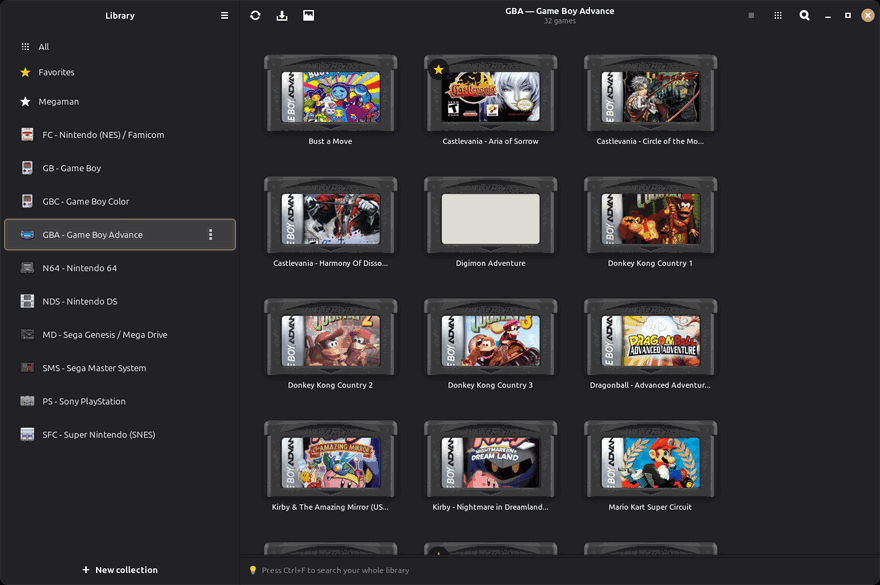
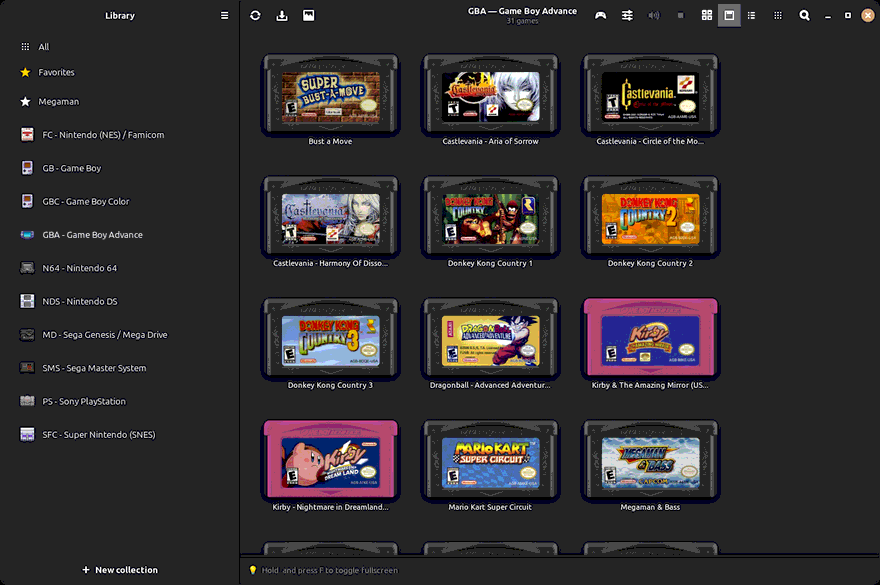
[issue-122] chore: refresh the Welcome Assistant slides
The seven images were captured on 24 July, before the 1.9.x UI. They showed
no header view switcher, no volume, stop, settings or per-console
controller buttons, no cartridge shelf, and the input page before the
Game Controls / System Hotkeys split -- and by now they also predated
everything the v1.10.0 milestone added.

Recaptured from the real app at the same 880x585 PNG8 the slides already
used, so the layout and the package size are unchanged.

Two consoles were chosen deliberately. `covers` and `views` use libraries
with complete box art: a card without artwork now falls back to the
"Search artwork…" placeholder from issue #127, which is a poor advert on a
slide called "Beautiful cover art". `shortcuts` uses a full compact list
so the hint bar has something under it.

The copy the issue asks about was stale in the same way, and in seven
languages now rather than two:

- "Make it your own" listed a cover grid and a compact list. The cartridge
  shelf is the *default* view mode and went unmentioned.
- "Beautiful cover art" predated both the OpenEmux artwork mirror and the
  per-ROM artwork manager, so it described two providers and no way to
  recover a miss.

Checked inside the wizard rather than only as PNGs -- the slides were
navigated in a running assistant, which is the only place the image and
its caption can be seen disagreeing.

diff --git a/src/openemux/i18n/locales/ja.py b/src/openemux/i18n/locales/ja.py
@@ -16,9 +16,9 @@ TRANSLATIONS = {
     "welcome.import.title": "ROM を取り込む",
     "welcome.import.body": "ROM ファイルをウィンドウの任意の場所にドロップすると取り込めます。設定 → ROM でライブラリのフォルダーを指定することもできます。ゲームはファイル形式から自動的に正しいコンソールへ振り分けられ、いつでも再スキャンして新しく追加した分を取り込めます。",
     "welcome.views.title": "自分好みに",
-    "welcome.views.body": "カバーのグリッドとコンパクトなリストを切り替え、カバーの大きさを変え、好きな順に並べ替えられます。コンソールごと・表示ごとにレイアウトを保持できるので、スーパーファミコンとゲームボーイで見え方を変えられます。",
+    "welcome.views.body": "カートリッジ棚、カバーのグリッド、コンパクトなリストを切り替え、カバーの大きさを変え、好きな順に並べ替えられます。コンソールごと・表示ごとにレイアウトを保持できるので、スーパーファミコンとゲームボーイで見え方を変えられます。",
     "welcome.covers.title": "美しいカバーアート",
-    "welcome.covers.body": "OpenEmux は libretro のサムネイルアーカイブからカバーを自動取得し、任意で ScreenScraper からカートリッジラベルのスキャンも取得します。カバーは ROM の隣に保存されるので、自分の画像を置いて好きなものに差し替えることもできます。",
+    "welcome.covers.body": "OpenEmux は libretro のアーカイブ、プロジェクト自身のミラー、そして任意で ScreenScraper（カートリッジラベル用）から自動でアートワークを取得します。見つからなかったゲームは、アートワーク管理から名前や ROM のハッシュで検索できます。もちろん自分の画像を使うこともできます。",
     "welcome.shaders.title": "色とシェーダー",
     "welcome.shaders.body": "それぞれのコンソールを記憶のままの見た目に。設定 → 映像 でシステムごとにシェーダーを選べます（CRT の走査線、LCD グリッドなど）。RetroArch でゲームを起動するたびに適用されます。",
     "welcome.shortcuts.title": "便利なショートカット",

diff --git a/src/openemux/i18n/locales/fr.py b/src/openemux/i18n/locales/fr.py
@@ -16,9 +16,9 @@ TRANSLATIONS = {
     "welcome.import.title": "Importez vos ROMs",
     "welcome.import.body": "Déposez des fichiers ROM n’importe où dans la fenêtre pour les importer, ou indiquez à OpenEmux le dossier de votre ludothèque dans Paramètres → ROMs. Les jeux sont classés automatiquement dans la bonne console d’après leur type de fichier, et vous pouvez relancer l’analyse à tout moment pour détecter les ajouts.",
     "welcome.views.title": "À votre goût",
-    "welcome.views.body": "Basculez entre une grille de jaquettes et une liste compacte, changez la taille des jaquettes et triez vos jeux comme vous le souhaitez. Chaque console et chaque vue peut garder sa propre disposition : vous pouvez parcourir la SNES autrement que la Game Boy.",
+    "welcome.views.body": "Basculez entre l’étagère à cartouches, la grille de jaquettes et la liste compacte, changez la taille des jaquettes et triez vos jeux comme vous le souhaitez. Chaque console et chaque vue garde sa propre disposition : vous pouvez parcourir la SNES autrement que la Game Boy.",
     "welcome.covers.title": "De belles jaquettes",
-    "welcome.covers.body": "OpenEmux récupère automatiquement les jaquettes depuis les archives de vignettes libretro et, en option, depuis ScreenScraper pour les scans d’étiquettes de cartouche. Les jaquettes sont stockées à côté de vos ROMs : vous pouvez donc aussi déposer vos propres images pour en remplacer n’importe laquelle.",
+    "welcome.covers.body": "OpenEmux récupère les jaquettes automatiquement depuis les archives libretro, le miroir du projet et, en option, ScreenScraper pour les étiquettes de cartouche. Quand un jeu passe entre les mailles, le gestionnaire de jaquettes cherche par nom ou par empreinte de ROM — et vous pouvez toujours déposer votre propre image.",
     "welcome.shaders.title": "Couleurs et shaders",
     "welcome.shaders.body": "Donnez à chaque console l’allure dont vous vous souvenez. Choisissez un shader par système dans Paramètres → Vidéo — lignes de balayage CRT, grilles LCD et plus encore — et OpenEmux l’applique à chaque lancement de jeu via RetroArch.",
     "welcome.shortcuts.title": "Raccourcis pratiques",

diff --git a/src/openemux/i18n/locales/es.py b/src/openemux/i18n/locales/es.py
@@ -16,9 +16,9 @@ TRANSLATIONS = {
     "welcome.import.title": "Importa tus ROMs",
     "welcome.import.body": "Arrastra archivos ROM a cualquier parte de la ventana para importarlos, o indica a OpenEmux la carpeta de tu biblioteca en Configuración → ROMs. Los juegos se ordenan en la consola correcta automáticamente según su tipo de archivo, y puedes reindexar cuando quieras para detectar novedades.",
     "welcome.views.title": "Hazlo a tu medida",
-    "welcome.views.body": "Alterna entre una cuadrícula de carátulas y una lista compacta, cambia el tamaño de las carátulas y ordena tus juegos a tu manera. Cada consola y vista puede conservar su propia disposición, así que puedes explorar la SNES de forma distinta a la Game Boy.",
+    "welcome.views.body": "Alterna entre la estantería de cartuchos, la cuadrícula de carátulas y la lista compacta, cambia el tamaño de las carátulas y ordena tus juegos a tu manera. Cada consola y cada vista conserva su propia disposición, así que puedes explorar la SNES de forma distinta a la Game Boy.",
     "welcome.covers.title": "Carátulas preciosas",
-    "welcome.covers.body": "OpenEmux descarga carátulas automáticamente de los archivos de miniaturas de libretro y, opcionalmente, de ScreenScraper para escaneos de etiquetas de cartucho. Las carátulas se guardan junto a tus ROMs, así que también puedes poner tus propias imágenes para sustituir cualquiera.",
+    "welcome.covers.body": "OpenEmux descarga las carátulas automáticamente de los archivos de libretro, del espejo del propio proyecto y, opcionalmente, de ScreenScraper para las etiquetas de cartucho. Cuando un juego se queda sin carátula, el gestor de carátulas busca por nombre o por hash de la ROM, y siempre puedes poner una imagen tuya.",
     "welcome.shaders.title": "Colores y shaders",
     "welcome.shaders.body": "Dale a cada consola el aspecto que recuerdas. Elige un shader por sistema en Configuración → Vídeo (líneas de barrido CRT, rejillas LCD y más) y OpenEmux lo aplica cada vez que inicias un juego con RetroArch.",
     "welcome.shortcuts.title": "Atajos útiles",

diff --git a/src/openemux/i18n/locales/pt_BR.py b/src/openemux/i18n/locales/pt_BR.py
@@ -17,9 +17,9 @@ TRANSLATIONS = {
     "welcome.import.title": "Importe suas ROMs",
     "welcome.import.body": "Arraste arquivos de ROM para qualquer lugar da janela para importá-los, ou indique a pasta da sua biblioteca em Configurações → ROMs. Os jogos são organizados no console certo automaticamente pelo tipo de arquivo, e você pode reescanear a qualquer momento para incluir novas adições.",
     "welcome.views.title": "Deixe do seu jeito",
-    "welcome.views.body": "Alterne entre grade de capas e lista compacta, mude o tamanho das capas e ordene os jogos como preferir. Cada console e visualização pode manter seu próprio layout, então o jeito de navegar no SNES pode ser diferente do Game Boy.",
+    "welcome.views.body": "Alterne entre a prateleira de cartuchos, a grade de capas e a lista compacta, mude o tamanho das capas e ordene seus jogos do seu jeito. Cada console e cada visualização guarda o próprio layout, então o Super Nintendo pode ser navegado de um jeito e o Game Boy de outro.",
     "welcome.covers.title": "Capas bonitas",
-    "welcome.covers.body": "O OpenEmux busca capas automaticamente nos arquivos de miniaturas do libretro e, opcionalmente, no ScreenScraper para labels de cartucho. As capas ficam junto das suas ROMs, então você também pode colocar suas próprias imagens para substituir qualquer uma.",
+    "welcome.covers.body": "O OpenEmux busca as artes automaticamente nos arquivos do libretro, no espelho do próprio projeto e, opcionalmente, no ScreenScraper para rótulos de cartucho. Quando um jogo escapa, o gerenciador de artes procura por nome ou pelo hash da ROM — e você sempre pode usar uma imagem sua no lugar.",
     "welcome.shaders.title": "Cores e shaders",
     "welcome.shaders.body": "Dê a cada console o visual que você lembra. Escolha um shader por sistema em Configurações → Vídeo — scanlines de CRT, grades de LCD e mais — e o OpenEmux aplica sempre que você inicia um jogo pelo RetroArch.",
     "welcome.shortcuts.title": "Atalhos úteis",

diff --git a/src/openemux/i18n/locales/de.py b/src/openemux/i18n/locales/de.py
@@ -16,9 +16,9 @@ TRANSLATIONS = {
     "welcome.import.title": "ROMs importieren",
     "welcome.import.body": "Ziehe ROM-Dateien an eine beliebige Stelle im Fenster, um sie zu importieren, oder gib OpenEmux in Einstellungen → ROMs deinen Bibliotheksordner an. Spiele werden anhand ihres Dateityps automatisch der richtigen Konsole zugeordnet, und du kannst jederzeit neu einlesen, um Neuzugänge zu erfassen.",
     "welcome.views.title": "Nach deinem Geschmack",
-    "welcome.views.body": "Wechsle zwischen Cover-Raster und kompakter Liste, ändere die Covergröße und sortiere deine Spiele, wie du magst. Jede Konsole und jede Ansicht behält ihr eigenes Layout — du kannst das SNES also anders durchstöbern als den Game Boy.",
+    "welcome.views.body": "Wechsle zwischen dem Modulregal, dem Cover-Raster und der kompakten Liste, ändere die Covergröße und sortiere deine Spiele, wie du magst. Jede Konsole und jede Ansicht behält ihr eigenes Layout — du kannst das SNES also anders durchstöbern als den Game Boy.",
     "welcome.covers.title": "Schöne Cover",
-    "welcome.covers.body": "OpenEmux lädt Cover automatisch aus den libretro-Vorschauarchiven und optional von ScreenScraper für Scans von Modul-Aufklebern. Cover liegen neben deinen ROMs, du kannst also auch eigene Bilder ablegen und jedes davon ersetzen.",
+    "welcome.covers.body": "OpenEmux lädt Bildmaterial automatisch aus den libretro-Archiven, dem Spiegel des Projekts und optional von ScreenScraper für Modul-Aufkleber. Wird ein Spiel nicht gefunden, sucht die Bildverwaltung nach Name oder ROM-Prüfsumme — und du kannst jederzeit ein eigenes Bild einsetzen.",
     "welcome.shaders.title": "Farben und Shader",
     "welcome.shaders.body": "Gib jeder Konsole das Aussehen, an das du dich erinnerst. Wähle pro System einen Shader unter Einstellungen → Video — CRT-Scanlines, LCD-Raster und mehr — und OpenEmux wendet ihn bei jedem Start über RetroArch an.",
     "welcome.shortcuts.title": "Praktische Tastenkürzel",

diff --git a/src/openemux/i18n/locales/en.py b/src/openemux/i18n/locales/en.py
@@ -17,9 +17,9 @@ TRANSLATIONS = {
     "welcome.import.title": "Import your ROMs",
     "welcome.import.body": "Drop ROM files anywhere in the window to import them, or point OpenEmux at your library folder in Settings → ROMs. Games are sorted into the right console automatically by their file type, and you can rescan at any time to pick up new additions.",
     "welcome.views.title": "Make it your own",
-    "welcome.views.body": "Switch between a cover grid and a compact list, change the cover size, and sort your games your way. Each console and view can keep its own layout, so the way you browse the SNES can differ from the way you browse the Game Boy.",
+    "welcome.views.body": "Switch between the cartridge shelf, a cover grid and a compact list, change the cover size, and sort your games your way. Each console and view can keep its own layout, so the way you browse the SNES can differ from the way you browse the Game Boy.",
     "welcome.covers.title": "Beautiful cover art",
-    "welcome.covers.body": "OpenEmux fetches box art automatically from the libretro thumbnail archives, and optionally from ScreenScraper for cartridge-label scans. Covers live next to your ROMs, so you can also drop in your own images to override any of them.",
+    "welcome.covers.body": "OpenEmux fetches artwork automatically from the libretro archives, the project's own mirror, and optionally ScreenScraper for cartridge-label scans. When a game is missed, the artwork manager searches by name or by ROM hash — and you can always drop in your own image instead.",
     "welcome.shaders.title": "Colors and shaders",
     "welcome.shaders.body": "Give each console the look you remember. Pick a shader per system in Settings → Video — CRT scanlines, LCD grids and more — and OpenEmux applies it whenever you launch a game through RetroArch.",
     "welcome.shortcuts.title": "Handy shortcuts",

diff --git a/src/openemux/i18n/locales/zh_CN.py b/src/openemux/i18n/locales/zh_CN.py
@@ -16,9 +16,9 @@ TRANSLATIONS = {
     "welcome.import.title": "导入你的 ROM",
     "welcome.import.body": "把 ROM 文件拖放到窗口任意位置即可导入，或在“设置 → ROM”中告诉 OpenEmux 你的游戏库文件夹。游戏会根据文件类型自动归入正确的主机，你也可以随时重新扫描以收录新增内容。",
     "welcome.views.title": "打造你的样子",
-    "welcome.views.body": "在封面网格与紧凑列表之间切换，调整封面大小，按你喜欢的方式排序。每台主机和每种视图都能保留各自的布局，因此浏览 SNES 的方式可以和 Game Boy 不同。",
+    "welcome.views.body": "在卡带陈列架、封面网格与紧凑列表之间切换，调整封面大小，按你喜欢的方式排序。每台主机和每种视图都能保留各自的布局，因此浏览 SNES 的方式可以和 Game Boy 不同。",
     "welcome.covers.title": "精美封面",
-    "welcome.covers.body": "OpenEmux 会自动从 libretro 缩略图库获取封面，也可选择从 ScreenScraper 获取卡带贴纸扫描图。封面保存在 ROM 旁边，你也可以放入自己的图片来替换其中任何一张。",
+    "welcome.covers.body": "OpenEmux 会自动从 libretro 图库、项目自建镜像，以及可选的 ScreenScraper（卡带贴纸）获取封面。若某款游戏没有匹配到，封面管理器可按名称或 ROM 哈希搜索——你也随时可以放入自己的图片。",
     "welcome.shaders.title": "色彩与着色器",
     "welcome.shaders.body": "让每台主机呈现你记忆中的样子。在“设置 → 视频”中为每个系统选择着色器——CRT 扫描线、LCD 网格等等——每次通过 RetroArch 启动游戏时 OpenEmux 都会应用它。",
     "welcome.shortcuts.title": "实用快捷键",
